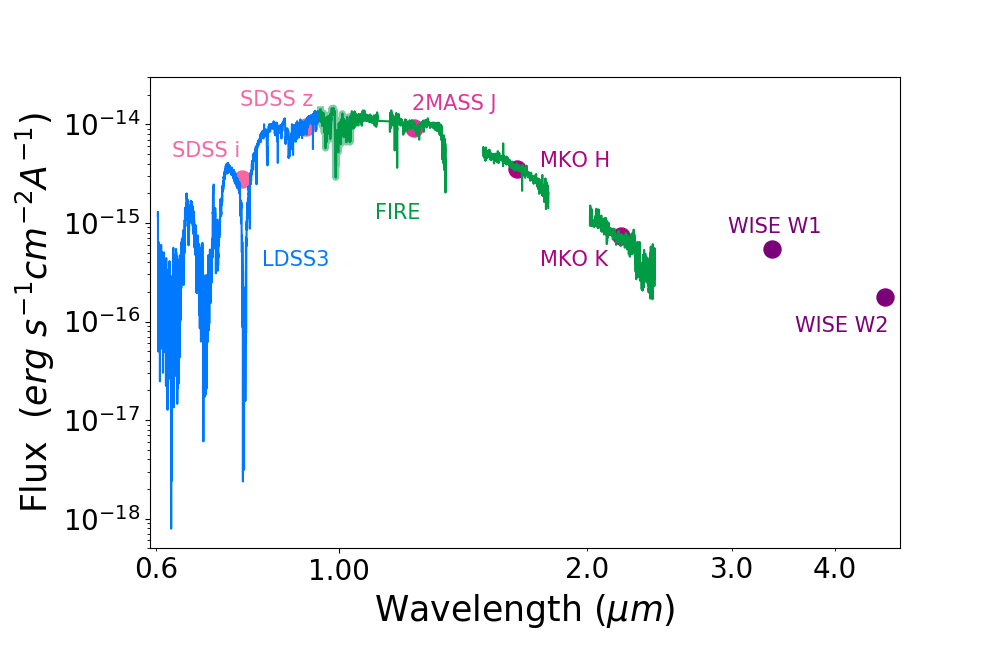
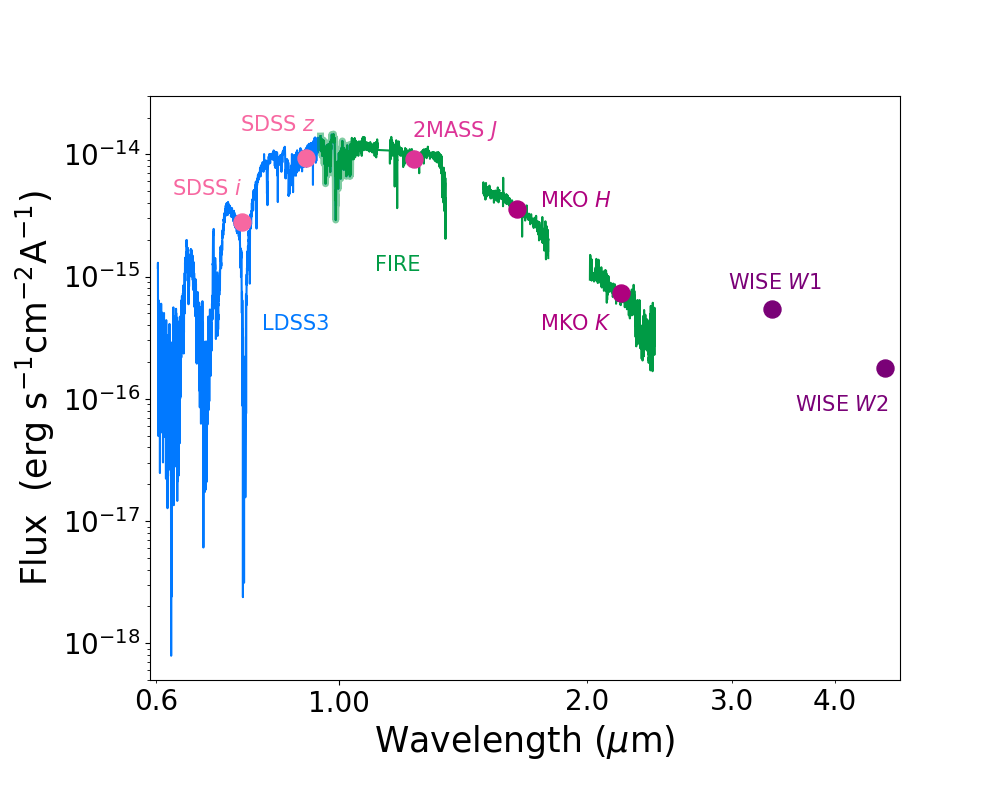
Made some of Johnathan's suggested modifcations

diff --git a/regimes.py b/regimes.py
@@ -42,13 +42,13 @@ ax1.loglog(h['w'], h['f'], c='#009B45')
 ax1.loglog(k['w'], k['f'], c='#009B45')
 
 # ----- Plot Photometric points -----
-ax1.scatter(df2['w'][0], df2['f'][0],  c='#dd3497', s=150)  # 2Mass J
-ax1.scatter(df2['w'][1], df2['f'][1],  c='#ae017e', s=150)  # MKO_H
-ax1.scatter(df2['w'][2], df2['f'][2],  c='#ae017e', s=150)  # MKO_K
-ax1.scatter(df2['w'][3], df2['f'][3],  c='#f768a1', s=150)  # SDSS_i
-ax1.scatter(df2['w'][4], df2['f'][4],  c='#f768a1', s=150)  # SDSS_z
-ax1.scatter(df2['w'][5], df2['f'][5],  c='#7a0177', s=150)  # WISE_W1
-ax1.scatter(df2['w'][6], df2['f'][6],  c='#7a0177', s=150)  # WISE_W2
+ax1.scatter(df2['w'][0], df2['f'][0],  c='#dd3497', s=150, zorder=6)  # 2Mass J
+ax1.scatter(df2['w'][1], df2['f'][1],  c='#ae017e', s=150, zorder=6)  # MKO_H
+ax1.scatter(df2['w'][2], df2['f'][2],  c='#ae017e', s=150, zorder=6)  # MKO_K
+ax1.scatter(df2['w'][3], df2['f'][3],  c='#f768a1', s=150, zorder=6)  # SDSS_i
+ax1.scatter(df2['w'][4], df2['f'][4],  c='#f768a1', s=150, zorder=6)  # SDSS_z
+ax1.scatter(df2['w'][5], df2['f'][5],  c='#7a0177', s=150, zorder=6)  # WISE_W1
+ax1.scatter(df2['w'][6], df2['f'][6],  c='#7a0177', s=150, zorder=6)  # WISE_W2
 
 # ----- Set axes limits, reformat ticks -----------
 plt.xlim([0.59, 4.8])
@@ -61,22 +61,23 @@ ax1.tick_params(axis='x', which='minor', labelsize=20)
 plt.yticks(fontsize=20)
 
 # ------ Axes Labels --------
-plt.xlabel('Wavelength ($\mu m$)', fontsize=25)
-plt.ylabel('Flux  ($erg\ s^{-1} cm^{-2} A^{-1}$)', fontsize=25)
+plt.xlabel('Wavelength ($\mu$m)', fontsize=25)
+plt.ylabel('Flux  ($\mathrm{erg\ s^{-1} cm^{-2} A^{-1}}$)', fontsize=25)
 
 # ------ Labeling Spectra and Photometric points --------
 ax1.text(0.3, 0.7, 'FIRE', transform=ax1.transAxes, color='#009B45', fontsize=15)
 ax1.text(0.15, 0.6, 'LDSS3', transform=ax1.transAxes, color='#0179FF', fontsize=15)
-ax1.text(0.77, 0.67, 'WISE W1', transform=ax1.transAxes, color='#7a0177', fontsize=15)
-ax1.text(0.86, 0.46, 'WISE W2', transform=ax1.transAxes, color='#7a0177', fontsize=15)
-ax1.text(0.52, 0.81, 'MKO H', transform=ax1.transAxes, color='#ae017e', fontsize=15)
-ax1.text(0.52, 0.6, 'MKO K', transform=ax1.transAxes, color='#ae017e', fontsize=15)
-ax1.text(0.35, 0.93, '2MASS J', transform=ax1.transAxes, color='#dd3497', fontsize=15)
-ax1.text(0.03, 0.83, 'SDSS i', transform=ax1.transAxes, color='#f768a1', fontsize=15)
-ax1.text(0.12, 0.94, 'SDSS z', transform=ax1.transAxes, color='#f768a1', fontsize=15)
+ax1.text(0.77, 0.67, 'WISE $W1$', transform=ax1.transAxes, color='#7a0177', fontsize=15)
+ax1.text(0.86, 0.46, 'WISE $W2$', transform=ax1.transAxes, color='#7a0177', fontsize=15)
+ax1.text(0.52, 0.81, 'MKO $H$', transform=ax1.transAxes, color='#ae017e', fontsize=15)
+ax1.text(0.52, 0.6, 'MKO $K$', transform=ax1.transAxes, color='#ae017e', fontsize=15)
+ax1.text(0.35, 0.93, '2MASS $J$', transform=ax1.transAxes, color='#dd3497', fontsize=15)
+ax1.text(0.03, 0.83, 'SDSS $i$', transform=ax1.transAxes, color='#f768a1', fontsize=15)
+ax1.text(0.12, 0.94, 'SDSS $z$', transform=ax1.transAxes, color='#f768a1', fontsize=15)
 
 plt.savefig('Plots/regimes.png')
 
+# -------- Add the bandpasses at the bottom of the plot ---------
 
 # Error bars are too small on this scale, keep for later?
 # ax1.errorbar(df2['w'][0], df2['f'][0], yerr=df2['err'][0], c='#f768a1')

diff --git a/Same_teff_comp_plot.py b/Same_teff_comp_plot.py
@@ -18,6 +18,9 @@ df_young = pd.DataFrame()
 df_young['w'] = b[0]
 df_young['f'] = b[1]
 
+# Get ride of lines from tails
+df_young=df_young[df_young['w']>= 0.61]
+
 # -------------------------------------------------------------------------------------
 # ------------------------- Normalize the spectra -------------------------------------
 # -------------------------------------------------------------------------------------
@@ -44,8 +47,8 @@ plt.ylim([-0.01, 52])
 # ------Tick size and Axes Labels --------
 plt.yticks(fontsize=20)
 plt.xticks(fontsize=20)
-plt.xlabel('Wavelength ($\mu m$)', fontsize=25)
-plt.ylabel('Normalized Flux (F$_\lambda$)', fontsize=25)
+plt.xlabel('Wavelength ($\mu$m)', fontsize=25)
+plt.ylabel('Normalized Flux ($F_\lambda$)', fontsize=25)
 
 # -------- Add data -----------
 ax1.plot(df_1256['w'], norm_df_1256, c='blue')
